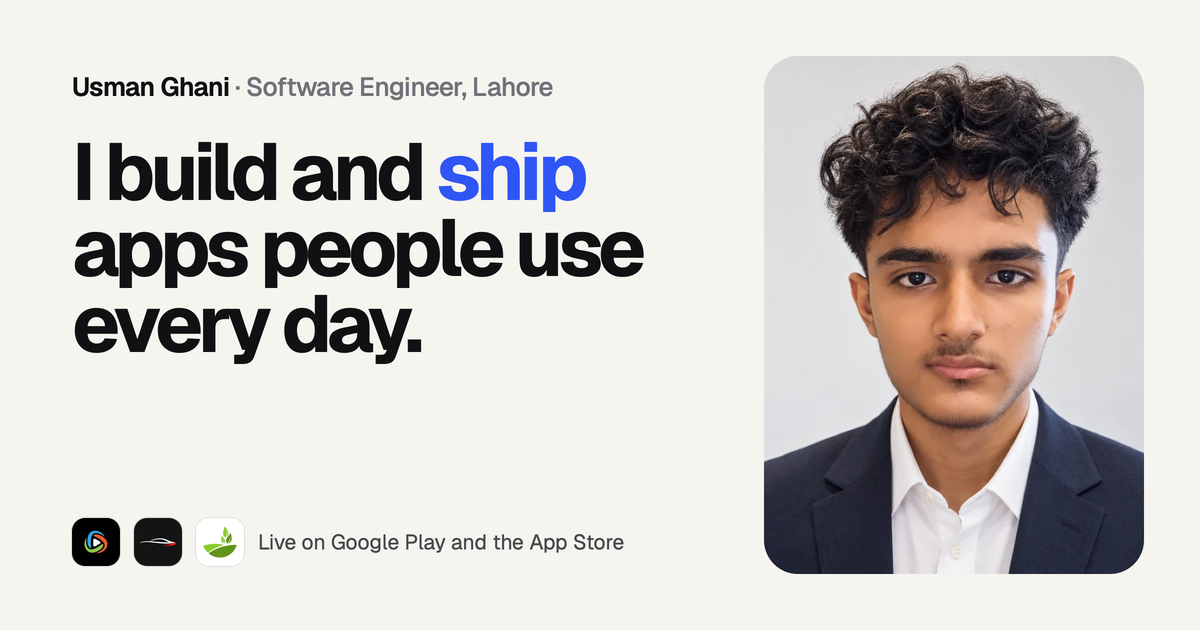
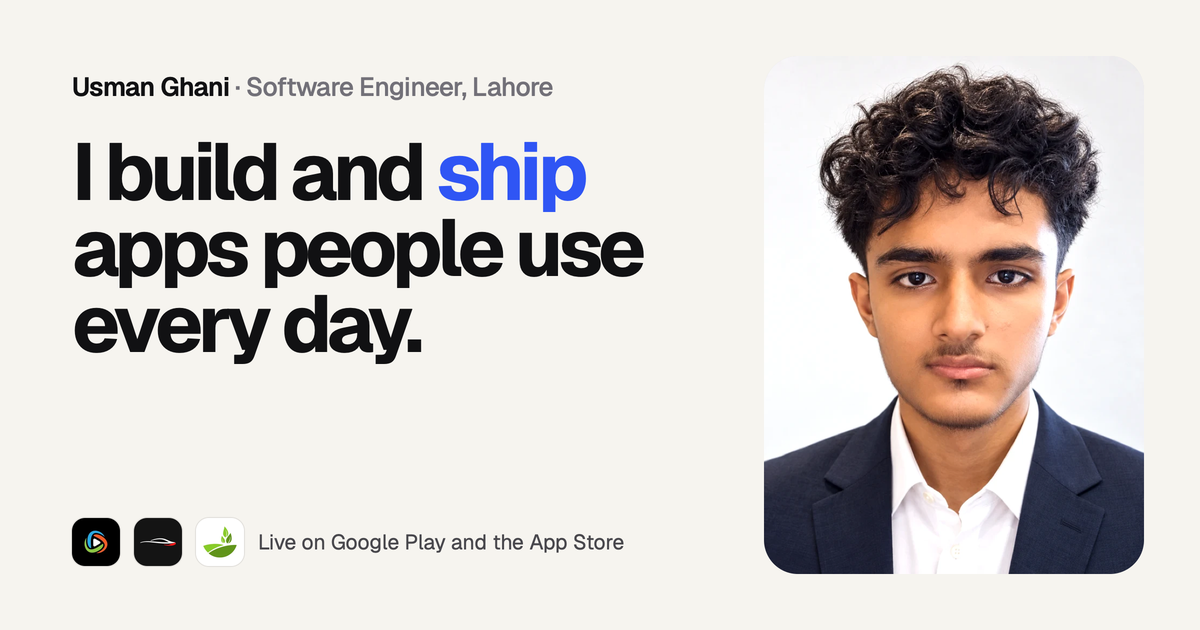
Portrait card instead of floating labels, achievement photos, Google Play developer block, clearer wording

Changed region(s): [[0.6167, 0.0905, 0.9558, 0.9349]]

diff --git a/src/app/globals.css b/src/app/globals.css
@@ -201,20 +201,17 @@ button { font: inherit; color: inherit; background: none; border: 0; padding: 0;
 .hero .lead { max-width: 580px; }
 .hero-socials { display: flex; gap: 4px; margin-left: 6px; }
 
-.portrait-wrap { position: relative; justify-self: end; width: min(100%, 470px); }
-.portrait { position: relative; overflow: hidden; aspect-ratio: 4 / 4.7; border-radius: 34px; background: #dcdcde; }
-.portrait img { width: 100%; height: 100%; object-fit: cover; object-position: 50% 30%; }
-.proof { position: absolute; z-index: 2; display: flex; align-items: center; gap: 12px; padding: 12px 18px 12px 12px; border-radius: 18px; background: var(--surface); box-shadow: inset 0 0 0 1px var(--line), var(--shadow-md); white-space: nowrap; animation: float-in 0.9s var(--ease) both; }
-.proof b { display: block; font-size: 0.97rem; font-weight: 650; letter-spacing: -0.015em; line-height: 1.25; }
-.proof small { display: block; color: var(--ink-3); font-size: 0.8125rem; line-height: 1.3; }
-.proof .pi { display: grid; place-items: center; flex: none; width: 42px; height: 42px; overflow: hidden; border-radius: 12px; background: var(--bg-2); }
-.proof .pi img { width: 100%; height: 100%; object-fit: contain; }
-.proof .pi.pad img { width: 78%; height: 78%; }
-.proof-1 { top: 9%; left: -14%; animation-delay: 0.2s; }
-.proof-2 { top: 46%; right: -12%; animation-delay: 0.35s; }
-.proof-3 { bottom: 7%; left: -10%; animation-delay: 0.5s; }
-@keyframes float-in { from { opacity: 0; transform: translate3d(0, 14px, 0); } }
-@media (prefers-reduced-motion: reduce) { .proof { animation: none; } }
+.portrait { position: relative; overflow: hidden; aspect-ratio: 4 / 4.4; border-radius: 34px; background: #e4e4e6; }
+.portrait img { width: 100%; height: 100%; object-fit: cover; object-position: 50% 28%; }
+.portrait-card { justify-self: end; width: min(100%, 460px); padding: 10px; border-radius: 40px; background: var(--surface); box-shadow: inset 0 0 0 1px var(--line), var(--shadow-md); }
+.portrait-card .portrait { border-radius: 31px; }
+.portrait-facts { display: grid; grid-template-columns: repeat(3, minmax(0, 1fr)); padding: 16px 6px 8px; }
+.portrait-facts > span { display: flex; align-items: center; gap: 10px; padding-inline: 10px; }
+.portrait-facts > span + span { border-left: 1px solid var(--line); }
+.portrait-facts img { width: 36px; height: 36px; flex: none; border-radius: 10px; object-fit: contain; }
+.portrait-facts img.pad { padding: 3px; background: var(--bg-2); }
+.portrait-facts b { display: block; font-size: 1.15rem; font-weight: 700; letter-spacing: -0.03em; line-height: 1.1; }
+.portrait-facts small { display: block; color: var(--ink-3); font-size: 0.8rem; line-height: 1.25; }
 
 .stats { display: grid; grid-template-columns: repeat(4, minmax(0, 1fr)); gap: 24px; margin-top: clamp(56px, 7vw, 88px); padding-top: 30px; border-top: 1px solid var(--line-2); }
 .stat b { display: block; font-size: clamp(2.1rem, 3.6vw, 3rem); font-weight: 700; letter-spacing: -0.055em; line-height: 1; }
@@ -249,6 +246,19 @@ button { font: inherit; color: inherit; background: none; border: 0; padding: 0;
 .also { display: flex; flex-wrap: wrap; align-items: baseline; gap: 8px 24px; margin-top: 28px; color: var(--ink-3); font-size: 0.97rem; }
 .also a { color: var(--ink-2); font-weight: 600; }
 @media (hover: hover) { .also a:hover { color: var(--ink); } }
+
+/* Google Play developer account */
+.play-account { display: grid; grid-template-columns: minmax(0, 1.1fr) minmax(0, 1.2fr) auto; align-items: center; gap: 24px 36px; margin-top: 20px; padding: 24px 28px; border-radius: var(--r-lg); background: var(--surface); box-shadow: inset 0 0 0 1px var(--line); }
+.play-id { display: flex; align-items: center; gap: 16px; }
+.play-logo { display: grid; place-items: center; flex: none; width: 52px; height: 52px; border-radius: 15px; background: #000; }
+.play-id h3 { font-size: 1.15rem; letter-spacing: -0.02em; }
+.play-id p { margin-top: 2px; color: var(--ink-2); font-size: 0.95rem; }
+.play-apps { display: grid; grid-template-columns: repeat(3, minmax(0, 1fr)); gap: 10px; }
+.play-apps a { display: flex; align-items: center; gap: 10px; padding: 8px 10px 8px 8px; border-radius: 16px; transition: background-color 0.2s var(--ease); }
+.play-apps img { width: 44px; height: 44px; flex: none; border-radius: 12px; box-shadow: 0 0 0 1px var(--line); }
+.play-apps b { display: block; font-size: 0.97rem; letter-spacing: -0.015em; }
+.play-apps small { display: block; color: var(--ink-3); font-size: 0.82rem; line-height: 1.3; }
+@media (hover: hover) { .play-apps a:hover { background: var(--bg-2); } }
 
 /* ---------- Web work (dark band) ---------- */
 
@@ -311,8 +321,13 @@ button { font: inherit; color: inherit; background: none; border: 0; padding: 0;
 .achs { display: grid; grid-template-columns: repeat(4, minmax(0, 1fr)); gap: 16px; }
 .ach { display: flex; flex-direction: column; padding: 10px; border-radius: var(--r-lg); background: var(--surface); box-shadow: inset 0 0 0 1px var(--line); }
 .ach-top { position: relative; display: grid; place-items: center; aspect-ratio: 4 / 3; border-radius: calc(var(--r-lg) - 8px); background: var(--tint); }
-.ach-top img { width: 46%; height: 46%; object-fit: contain; }
-.ach-rank { position: absolute; left: 16px; top: 10px; font-size: 1.9rem; font-weight: 750; letter-spacing: -0.05em; }
+.ach-top { overflow: hidden; }
+.ach-big-logo { width: 46%; height: 46%; object-fit: contain; }
+.ach-photo { position: absolute; inset: 0; width: 100%; height: 100%; object-fit: cover; object-position: 50% 35%; }
+.ach-logo { position: absolute; left: 12px; bottom: 12px; display: grid; place-items: center; width: 44px; height: 44px; border-radius: 12px; background: #fff; box-shadow: 0 4px 14px -6px rgb(0 0 0 / 0.4); }
+.ach-logo img { width: 80%; height: 80%; object-fit: contain; }
+.ach-top.has-photo .ach-rank { padding: 4px 12px; border-radius: 999px; background: #fff; color: #111113; font-size: 1.1rem; box-shadow: 0 4px 14px -6px rgb(0 0 0 / 0.4); }
+.ach-rank { position: absolute; left: 12px; top: 12px; z-index: 1; font-size: 1.9rem; font-weight: 750; letter-spacing: -0.05em; }
 .ach-body { display: flex; flex: 1; flex-direction: column; gap: 8px; padding: 18px 10px 10px; }
 .ach-body .event { color: var(--accent); font-size: 0.9rem; font-weight: 650; }
 .ach-body h3 { font-size: 1.15rem; letter-spacing: -0.02em; line-height: 1.25; }
@@ -414,9 +429,9 @@ button { font: inherit; color: inherit; background: none; border: 0; padding: 0;
 .about-head { display: grid; grid-template-columns: minmax(0, 0.85fr) minmax(0, 1.15fr); align-items: center; gap: clamp(32px, 6vw, 80px); }
 .prose { display: grid; gap: 18px; color: var(--ink-2); font-size: 1.12rem; }
 .prose strong { color: var(--ink); font-weight: 600; }
-.photos { display: grid; grid-template-columns: 1.3fr 1fr; gap: 16px; }
+.photos { display: grid; grid-template-columns: repeat(3, minmax(0, 1fr)); gap: 16px; }
 .photos figure { overflow: hidden; border-radius: var(--r-lg); background: var(--bg-2); }
-.photos img { width: 100%; height: 100%; aspect-ratio: 4 / 3; object-fit: cover; }
+.photos img { width: 100%; aspect-ratio: 4 / 3; object-fit: cover; object-position: 50% 35%; }
 .photos figcaption { padding: 12px 16px 14px; color: var(--ink-3); font-size: 0.9rem; }
 .labs { display: grid; border-top: 1px solid var(--line-2); }
 .lab { display: grid; grid-template-columns: minmax(150px, 0.6fr) minmax(0, 2fr) minmax(0, 0.8fr); gap: 8px 32px; align-items: baseline; padding-block: 22px; border-bottom: 1px solid var(--line); }
@@ -430,11 +445,7 @@ button { font: inherit; color: inherit; background: none; border: 0; padding: 0;
 
 @media (max-width: 1100px) {
   .hero-grid { grid-template-columns: minmax(0, 1fr); }
-  .portrait-wrap { justify-self: center; width: min(100%, 460px); margin-top: 12px; }
-  .proof-1 { left: -6%; }
-  .proof-2 { right: -6%; }
-  .proof-3 { left: -4%; }
-  .stats { grid-template-columns: repeat(2, minmax(0, 1fr)); gap: 30px 24px; }
+          .stats { grid-template-columns: repeat(2, minmax(0, 1fr)); gap: 30px 24px; }
   .feature { grid-template-columns: minmax(0, 1fr); }
   .feature-copy { padding: 4px 8px 12px; }
   .webs { grid-template-columns: repeat(2, minmax(0, 1fr)); }
@@ -468,15 +479,13 @@ button { font: inherit; color: inherit; background: none; border: 0; padding: 0;
   .hero .row { width: 100%; }
   .hero .row .btn { flex: 1 1 150px; }
   .hero-socials { display: none; }
-  .portrait { border-radius: 26px; }
-  .proof { padding: 9px 14px 9px 9px; gap: 10px; border-radius: 15px; }
-  .proof .pi { width: 36px; height: 36px; border-radius: 10px; }
-  .proof b { font-size: 0.875rem; }
-  .proof small { font-size: 0.75rem; }
-  .proof-1 { top: 5%; left: -2%; }
-  .proof-2 { top: 50%; right: -2%; }
-  .proof-3 { bottom: 5%; left: -2%; }
-  .stat span { font-size: 0.875rem; }
+  .portrait-card { padding: 8px; border-radius: 32px; }
+  .portrait-card .portrait { border-radius: 25px; }
+  .portrait-facts > span { gap: 8px; padding-inline: 6px; }
+  .portrait-facts img { width: 30px; height: 30px; }
+  .play-account { padding: 20px; }
+  .play-apps { grid-template-columns: minmax(0, 1fr); }
+                .stat span { font-size: 0.875rem; }
   .orgs { justify-content: flex-start; gap: 22px 30px; }
   .orgs-label { width: 100%; }
   .app-body { padding: 18px 10px 10px; }

diff --git a/src/app/page.tsx b/src/app/page.tsx
@@ -1,10 +1,9 @@
 import type { Metadata } from 'next';
 import Link from 'next/link';
-import { Achievements, Apps, Certificates, Contact, Education, Experience, Orgs, Stack, WebWork } from '@/components/Blocks';
+import { Achievements, Apps, Certificates, Contact, Education, Experience, Orgs, PlayAccount, Stack, WebWork } from '@/components/Blocks';
 import { Icon } from '@/components/Icon';
 import { Brand } from '@/components/Logos';
 import { SITE_URL, me, stats } from '@/data/site';
-import { moreApps } from '@/data/work';
 import { JsonLd, person, website } from '@/lib/seo';
 
 export const metadata: Metadata = { alternates: { canonical: '/' } };
@@ -62,38 +61,34 @@ export default function Home() {
               </div>
             </div>
 
-            <div className="portrait-wrap">
+            <figure className="portrait-card">
               <div className="portrait">
                 <img src={me.photo} alt="Usman Ghani" width={960} height={960} fetchPriority="high" />
               </div>
-              <div className="proof proof-1">
-                <span className="pi">
-                  <img src="/img/apps/snapcut-icon.webp" alt="" />
+              <figcaption className="portrait-facts">
+                <span>
+                  <img src="/img/apps/snapcut-icon.webp" alt="" width={36} height={36} />
+                  <span>
+                    <b>5K+</b>
+                    <small>SnapCut downloads</small>
+                  </span>
                 </span>
                 <span>
-                  <b>SnapCut · 5K+ downloads</b>
-                  <small>Rated 4.4 on Google Play</small>
-                </span>
-              </div>
-              <div className="proof proof-2">
-                <span className="pi pad">
-                  <img src="/img/logos/namal.png" alt="" />
+                  <img className="pad" src="/img/logos/namal.png" alt="" width={36} height={36} />
+                  <span>
+                    <b>1st</b>
+                    <small>CodeX 3.0</small>
+                  </span>
                 </span>
                 <span>
-                  <b>Winner, CodeX 3.0</b>
-                  <small>188 programmers, 11 universities</small>
+                  <img className="pad" src="/img/logos/pkcert.png" alt="" width={36} height={36} />
+                  <span>
+                    <b>#1</b>
+                    <small>CTF Square</small>
+                  </span>
                 </span>
-              </div>
-              <div className="proof proof-3">
-                <span className="pi pad">
-                  <img src="/img/logos/pkcert.png" alt="" />
-                </span>
-                <span>
-                  <b>#1 on CTF Square</b>
-                  <small>National CERT, Pakistan</small>
-                </span>
-              </div>
-            </div>
+              </figcaption>
+            </figure>
           </div>
 
           <dl className="stats">
@@ -122,8 +117,8 @@ export default function Home() {
                 Apps people actually <span className="accent">download</span>.
               </h2>
               <p className="lead">
-                Four apps I built and shipped to the stores, for my own company and for businesses across Pakistan. Each one is live
-                and in daily use.
+                Built and shipped to Google Play and the App Store, as an independent developer and for businesses across Pakistan.
+                Every one is live and in daily use.
               </p>
             </div>
             <Link className="link" href="/work">
@@ -132,14 +127,7 @@ export default function Home() {
             </Link>
           </div>
           <Apps />
-          <p className="also">
-            Also on Google Play:
-            {moreApps.map((m) => (
-              <a key={m.name} href={m.href} target="_blank" rel="noopener">
-                {m.name}
-              </a>
-            ))}
-          </p>
+          <PlayAccount />
         </div>
       </section>
 
@@ -203,7 +191,7 @@ export default function Home() {
               <h2 className="title" id="cert-title">
                 Certified by <span className="accent">Meta, Microsoft and IBM</span>.
               </h2>
-              <p className="lead">The certificates that matter most for my work. Tap one to see it.</p>
+              <p className="lead">From Meta, Microsoft, IBM and UC Irvine. Tap any certificate to see it.</p>
             </div>
             <Link className="link" href="/certifications">
               <span>All certificates</span>

diff --git a/src/components/Blocks.tsx b/src/components/Blocks.tsx
@@ -1,6 +1,6 @@
 import Link from 'next/link';
 import { achievements, education, jobs, me, orgs, stack } from '@/data/site';
-import { apps, bizcarePk, web, type AppWork } from '@/data/work';
+import { apps, bizcarePk, playAccount, web, type AppWork } from '@/data/work';
 import { certifications } from '@/data/certifications';
 import { AppStoreBadge, BizcareLogo, Brand, PlayBadge } from './Logos';
 import { CopyEmail } from './CopyEmail';
@@ -211,9 +211,18 @@ export function Achievements() {
     <ul className="achs">
       {achievements.map((a, i) => (
         <li key={a.event} className="ach" data-reveal style={d(i)}>
-          <div className="ach-top" style={{ ['--tint' as string]: a.tint }}>
+          <div className={`ach-top${a.photo ? ' has-photo' : ''}`} style={{ ['--tint' as string]: a.tint }}>
+            {a.photo ? (
+              <img className="ach-photo" src={a.photo} alt={`${a.event}, ${a.title}`} loading="lazy" />
+            ) : (
+              <img className="ach-big-logo" src={a.logo} alt={`${a.org} logo`} loading="lazy" />
+            )}
             <span className="ach-rank">{a.rank}</span>
-            <img src={a.logo} alt={`${a.org} logo`} loading="lazy" />
+            {a.photo && (
+              <span className="ach-logo">
+                <img src={a.logo} alt={`${a.org} logo`} loading="lazy" />
+              </span>
+            )}
           </div>
           <div className="ach-body">
             <span className="event">{a.event}</span>
@@ -226,6 +235,40 @@ export function Achievements() {
         </li>
       ))}
     </ul>
+  );
+}
+
+export function PlayAccount() {
+  return (
+    <div className="play-account" data-reveal>
+      <div className="play-id">
+        <span className="play-logo">
+          <Brand name="googleplay" size={26} color="#fff" />
+        </span>
+        <div>
+          <h3>My Google Play developer account</h3>
+          <p>
+            Published as <b>{playAccount.name}</b>. I design, build, release and support every app on it.
+          </p>
+        </div>
+      </div>
+      <ul className="play-apps">
+        {playAccount.apps.map((p) => (
+          <li key={p.name}>
+            <a href={p.href} target="_blank" rel="noopener">
+              <img src={p.icon} alt="" width={44} height={44} loading="lazy" />
+              <span>
+                <b>{p.name}</b>
+                <small>{p.text}</small>
+              </span>
+            </a>
+          </li>
+        ))}
+      </ul>
+      <a className="btn btn-ink btn-sm" href={playAccount.href} target="_blank" rel="noopener">
+        View on Google Play <Icon name="arrow-up-right" size={18} className="out" />
+      </a>
+    </div>
   );
 }
 

diff --git a/src/app/about/page.tsx b/src/app/about/page.tsx
@@ -76,12 +76,16 @@ export default function About() {
           <Achievements />
           <div className="photos" style={{ marginTop: 20 }}>
             <figure data-reveal>
-              <img src="/img/me/aurex-team.webp" alt="Usman Ghani with the AUREX 2026 winners at Bahria University, Islamabad" width={1195} height={896} loading="lazy" />
-              <figcaption>AUREX 2026 at Bahria University, Islamabad</figcaption>
+              <img src="/img/me/codex-trophy.webp" alt="1st Position trophy, Competitive Programming, CodeX 3.0, Namal University" width={895} height={1200} loading="lazy" />
+              <figcaption>CodeX 3.0 trophy, 5 December 2025</figcaption>
             </figure>
             <figure data-reveal>
-              <img src="/img/me/aurex-certificate.webp" alt="AUREX 2026 certificate: Speed Programming, 2nd Runner Up" width={1280} height={885} loading="lazy" />
-              <figcaption>2nd Runner-Up certificate, Speed Programming</figcaption>
+              <img src="/img/me/ctf-leaderboard.webp" alt="CTF Square individual leaderboard with Usman Ghani at number one" width={1000} height={750} loading="lazy" />
+              <figcaption>CTF Square leaderboard, National CERT</figcaption>
+            </figure>
+            <figure data-reveal>
+              <img src="/img/me/aurex-team.webp" alt="Usman Ghani with the AUREX 2026 winners at Bahria University, Islamabad" width={1195} height={896} loading="lazy" />
+              <figcaption>AUREX 2026, Bahria University</figcaption>
             </figure>
           </div>
         </div>

diff --git a/src/app/work/page.tsx b/src/app/work/page.tsx
@@ -1,7 +1,7 @@
 import type { Metadata } from 'next';
-import { Apps, Contact, WebWork } from '@/components/Blocks';
+import { Apps, Contact, PlayAccount, WebWork } from '@/components/Blocks';
 import { SITE_URL, ogImage } from '@/data/site';
-import { apps, labs, moreApps } from '@/data/work';
+import { apps, labs } from '@/data/work';
 import { JsonLd, crumbs, person } from '@/lib/seo';
 
 const title = 'Work: Apps and Web Platforms I’ve Shipped';
@@ -54,14 +54,7 @@ export default function WorkPage() {
             </h2>
           </div>
           <Apps />
-          <p className="also">
-            Also on Google Play:
-            {moreApps.map((m) => (
-              <a key={m.name} href={m.href} target="_blank" rel="noopener">
-                {m.name}
-              </a>
-            ))}
-          </p>
+          <PlayAccount />
         </div>
       </section>
 

diff --git a/src/app/certifications/page.tsx b/src/app/certifications/page.tsx
@@ -24,7 +24,7 @@ export default function Certificates() {
             <span className="accent">Certificates</span>
           </h1>
           <p className="lead">
-            {certifications.length} certificates, most important first. My internship certificate from Fatima Group is with my experience.
+            {certifications.length} certificates in mobile development, AI, security, the web and automation. My internship certificate from Fatima Group is listed with my experience.
           </p>
         </div>
       </header>

diff --git a/src/app/work/[slug]/page.tsx b/src/app/work/[slug]/page.tsx
@@ -67,9 +67,7 @@ export default async function CaseStudy({ params }: Props) {
             <img src={a.icon} alt="" width={68} height={68} />
             <div>
               <b>{a.name}</b>
-              <span>
-                {a.client} · built at {a.builtAt}
-              </span>
+              <span>{a.client}</span>
             </div>
           </div>
           <h1 className="display">{a.tagline}</h1>
